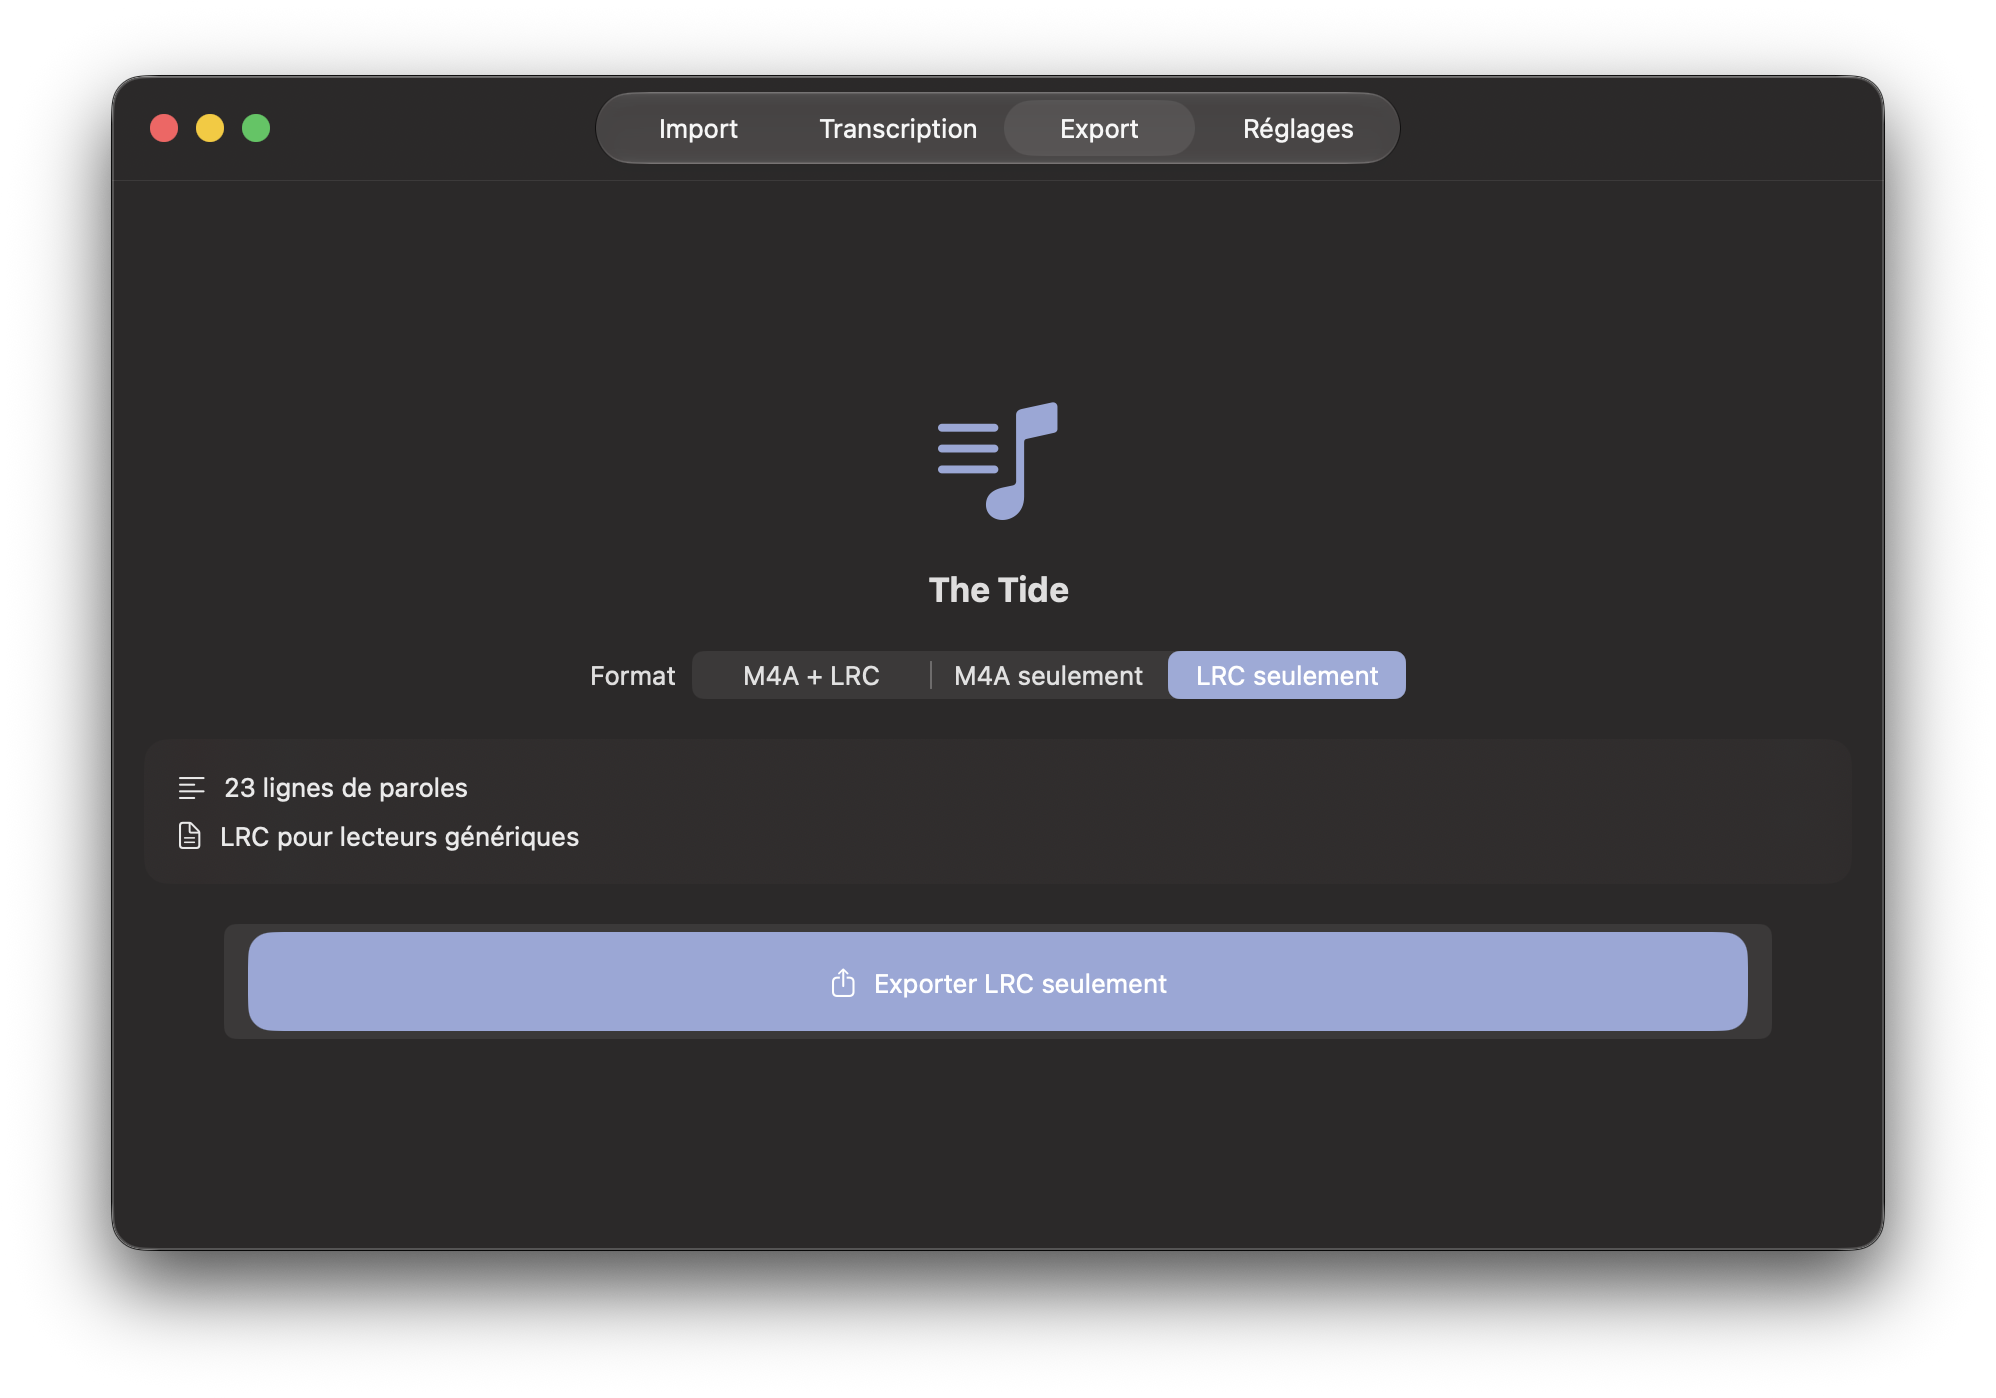
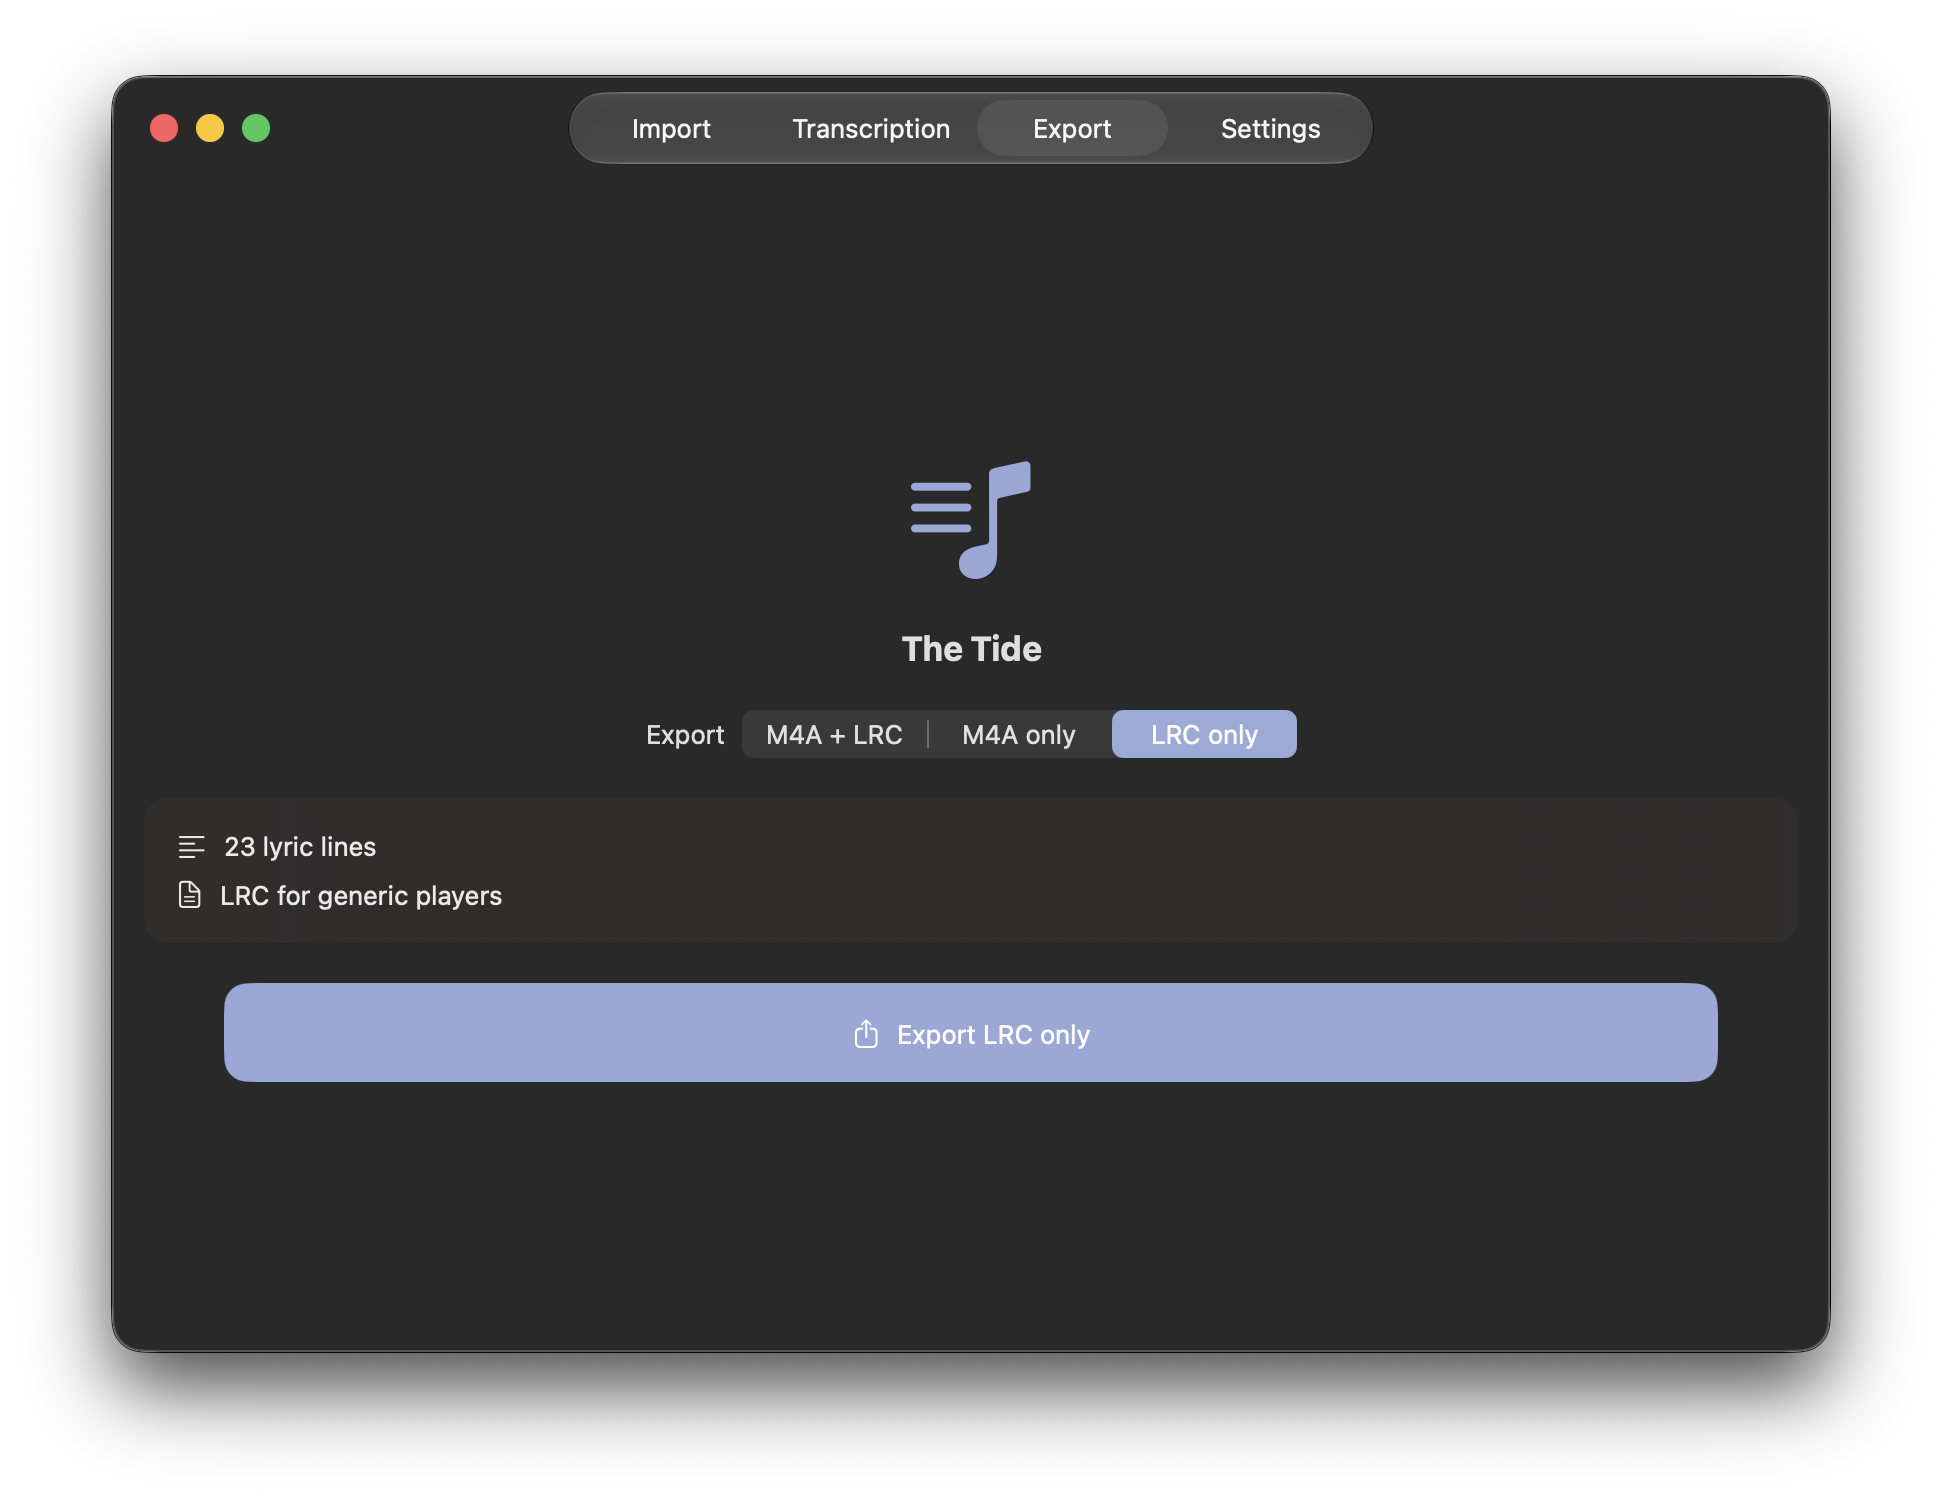
Updates

diff --git a/LyricSync/Views/ExportView.swift b/LyricSync/Views/ExportView.swift
@@ -22,6 +22,9 @@ struct ExportView: View {
                 )
             }
         }
+        #if os(macOS)
+        .buttonStyle(.plain)
+        #endif
     }
 
     private var progressView: some View {
@@ -96,6 +99,9 @@ struct ExportView: View {
             Spacer()
         }
         .padding()
+        #if os(macOS)
+        .buttonStyle(.plain)
+        #endif
     }
 
     private func exportedView(m4aURL: URL?, lrcURL: URL?) -> some View {

diff --git a/LyricSync/Views/TranscriptionView.swift b/LyricSync/Views/TranscriptionView.swift
@@ -148,7 +148,7 @@ struct TranscriptionView: View {
                     }
                     .presentationDetents([.medium, .large])
                 }
-            } else {
+                } else {
                 ContentUnavailableView(
                     "No song imported",
                     systemImage: "music.note",
@@ -156,6 +156,9 @@ struct TranscriptionView: View {
                 )
             }
         }
+        #if os(macOS)
+        .buttonStyle(.plain)
+        #endif
     }
 
     private func lyricList(song: Song) -> some View {

diff --git a/LyricSync/Views/ImportView.swift b/LyricSync/Views/ImportView.swift
@@ -51,6 +51,9 @@ struct ImportView: View {
 
             Spacer()
         }
+        #if os(macOS)
+        .buttonStyle(.plain)
+        #endif
         .fileImporter(
             isPresented: $viewModel.showFilePicker,
             allowedContentTypes: [.audio, .mp3, .mpeg4Audio, .wav, .aiff],

diff --git a/LyricSync/Views/SettingsView.swift b/LyricSync/Views/SettingsView.swift
@@ -101,7 +101,8 @@ struct SettingsView: View {
             }
             .navigationTitle("Settings")
             #if os(macOS)
-            .padding(.horizontal)
+            .formStyle(.grouped)
+            .frame(maxWidth: 600)
             #endif
         }
     }

diff --git a/README.md b/README.md
@@ -41,6 +41,7 @@ Download the latest release:
   <img src="Screenshots/ReadyToTranscribe.png" width="250" alt="Ready to transcribe">
   <img src="Screenshots/EditView.png" width="250" alt="Edit lyrics">
   <img src="Screenshots/ExportView.png" width="250" alt="Export">
+  <img src="Screenshots/Settings.png" width="250" alt="Settings">
 </div>
 
 </details>